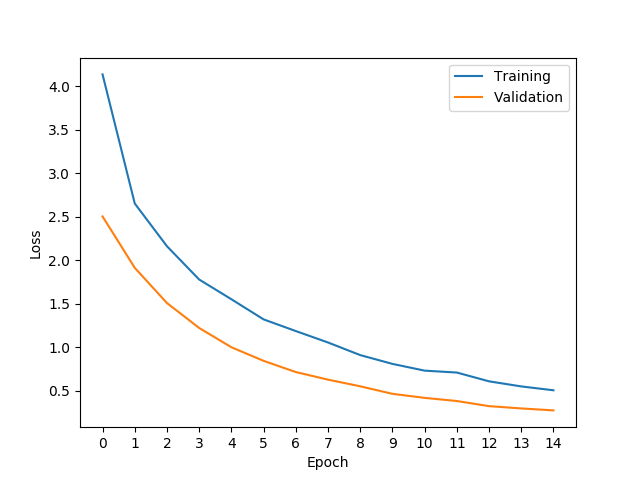
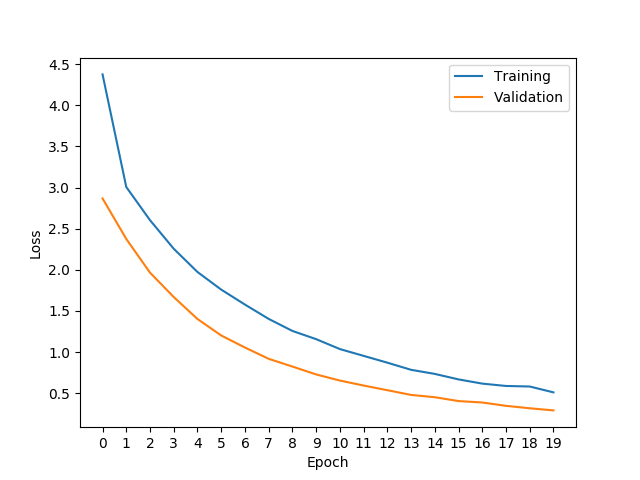
timing and output statistics

diff --git a/train.py b/train.py
@@ -20,6 +20,8 @@ def train_model(net, train_loader, val_loader):
     train_acc_history = []
     val_acc_history = []
 
+    training_start = time.time()
+
     for epoch in range(NUM_EPOCHS):
         print('-----------------Epoch = %d-----------------' % (epoch+1))
 
@@ -30,17 +32,17 @@ def train_model(net, train_loader, val_loader):
 
         # train_acc = cal_accuracy(train_loader, net, criterion, device)
         train_acc = cal_accuracy(train_loader, net)
-        print('Train Accuracy:', "%.4f" % train_acc)
-
 
         # val_loss = test(val_loader, net, criterion, device)
         val_loss = test(val_loader, net)
-        print('Validation Loss:', "%.4f" % val_loss)
-
 
         # val_acc = cal_accuracy(train_loader, net, criterion, device)
         val_acc = cal_accuracy(val_loader, net)
+
+        print('Train Accuracy:', "%.4f" % train_acc)
+        print('Train Loss:', "%.4f" % train_loss)
         print('Validation Accuracy:', "%.4f" % val_acc)
+        print('Validation Loss:', "%.4f" % val_loss)
 
         train_loss_history.append(train_loss)
         train_acc_history.append(train_acc)
@@ -50,6 +52,11 @@ def train_model(net, train_loader, val_loader):
 
         end = time.time()
         print('Epoch Duration:', "%.1f" % (end - start), 'seconds')
+
+    training_end = time.time()
+    minutes = int(training_end - training_start) % 60
+    secs = int(training_end - training_start) / 60
+    print('Training Duration:', mins, 'minutes and', secs, 'seconds')
 
     return train_loss_history, val_loss_history, train_acc_history, val_acc_history
 

diff --git a/helper.py b/helper.py
@@ -119,6 +119,8 @@ def cal_accuracy(test_loader, net, test_set=False):
             ax.set_ylabel('Accuracy (%)')
             ax.set_xlabel('Class ID')
             ax.set_title('Model Accuracy on Test Set by Class')
+
+            plt.ylim(bottom=0.50)
             plt.savefig('plots/test_set_performance_accuracy.png')
 
             # calculate statistcs

diff --git a/config.py b/config.py
@@ -14,7 +14,7 @@ TEST_RATIO = 0.1
 CRITERION = nn.CrossEntropyLoss()
 LEARNING_RATE = 1e-5
 WEIGHT_DECAY = 1e-5
-NUM_EPOCHS = 15
+NUM_EPOCHS = 20
 DROPOUT_PROB = 0.4
 NUM_BATCHES = 80
 
